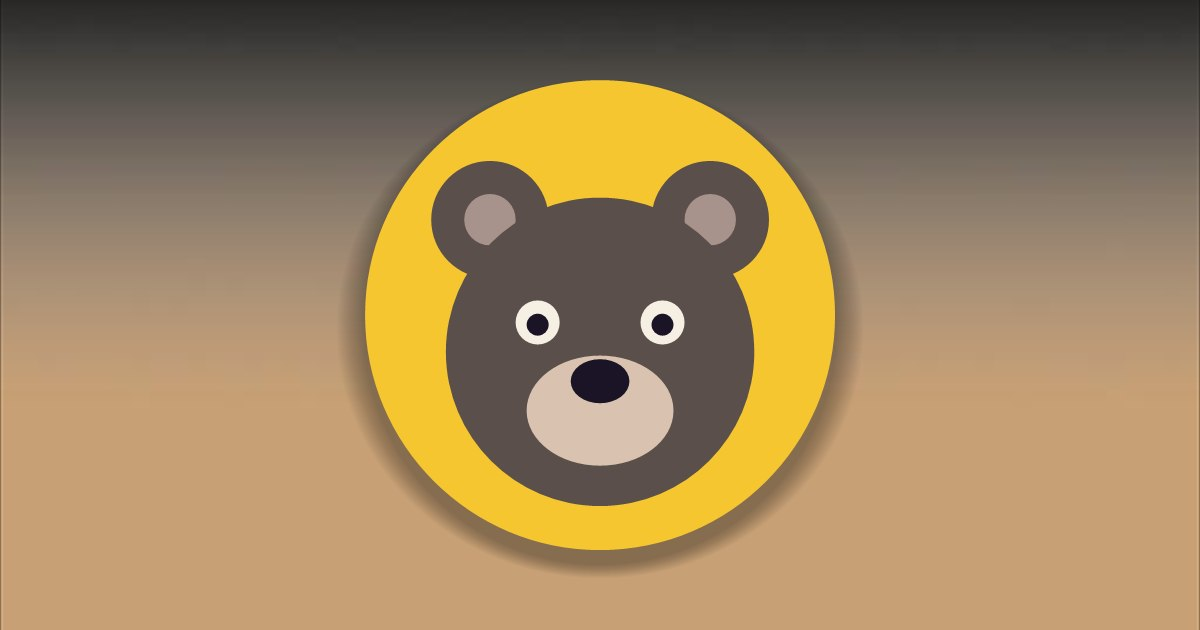
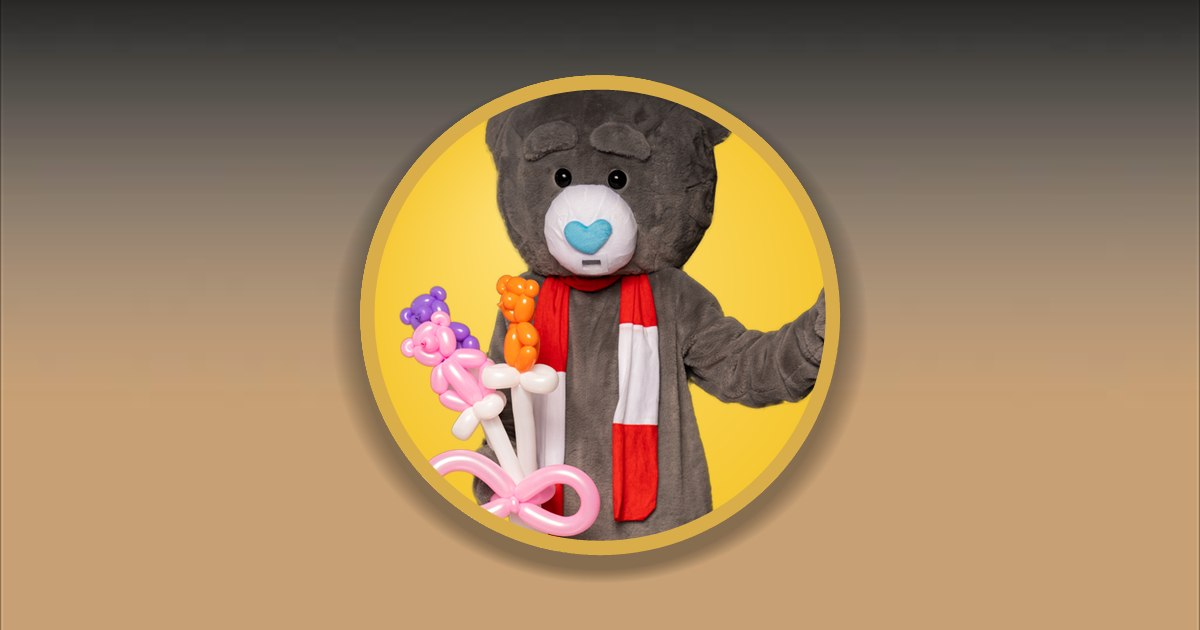
feat: share image with the Mischka figure in the yellow disc; log hosting/SEO/share-image decisions

Changed region(s): [[0.2775, 0.1206, 0.7092, 0.9349]]

diff --git a/PROGRESS.md b/PROGRESS.md
@@ -43,6 +43,26 @@ rewriting the list.
 
 ## Decisions log (append-only, newest first)
 
+- 2026-11-08 — Share image `assets/img/og-mischka-odenwald.jpg` (1200x630, ~60 KB) generated with
+  System.Drawing: customer's `background-gradient.png` scaled to cover + a **yellow disc with the
+  real Mischka figure** (`figure-mischka-1.png`, cropped like the homepage orb: cover, top 6%,
+  1.25x zoom, gold ring) centered with a soft shadow. I cannot see images, so framing/colors are
+  unchecked. Wired into og:image / twitter:image (summary_large_image). Social platforms cache
+  previews: use the Facebook Sharing Debugger to refresh after going live.
+- 2026-11-08 — SEO basics, all derived from `Domain:` in the text file (no domain → plain
+  relative language link, no crawl files): canonical, hreflang de/ru/x-default, Open Graph +
+  Twitter tags, LocalBusiness JSON-LD (same data as the Impressum, no opening hours), generated
+  `robots.txt` and `sitemap.xml` (legal pages stay noindex and out of the sitemap). Dev server and
+  `preview.mjs` serve/copy both files. Todo after going live: Google Search Console + submit the
+  sitemap; use real search words in the page titles (DE/RU).
+- 2026-11-08 — **Hosting decided: GitHub Pages** (Strato dropped). Workflow
+  `.github/workflows/build.yml` builds on every push/PR and deploys from main only
+  (`actions/deploy-pages`; ZIP artifact `webseite` kept). `Hoster: GitHub Inc.` in the text file;
+  Datenschutz §3 has a GitHub/US-transfer paragraph (DPF statement from my knowledge — legal
+  check). DNS at Squarespace: A ×4 for @ (185.199.108-111.153), CNAME www →
+  rundrelektrotechnik.github.io. **Site is live at https://mischka-odenwald.de with HTTPS**
+  (verified with curl; http and www redirect correctly).
+
 - 2026-11-08 — Domain **mischka-odenwald.de** is owned via Squarespace (domain only, no site).
   New text-file key `Domain:`; the Impressum/Datenschutz show it as "Website" and Datenschutz §3
   has a paragraph on Squarespace as domain/DNS provider (Squarespace Ireland Limited address
